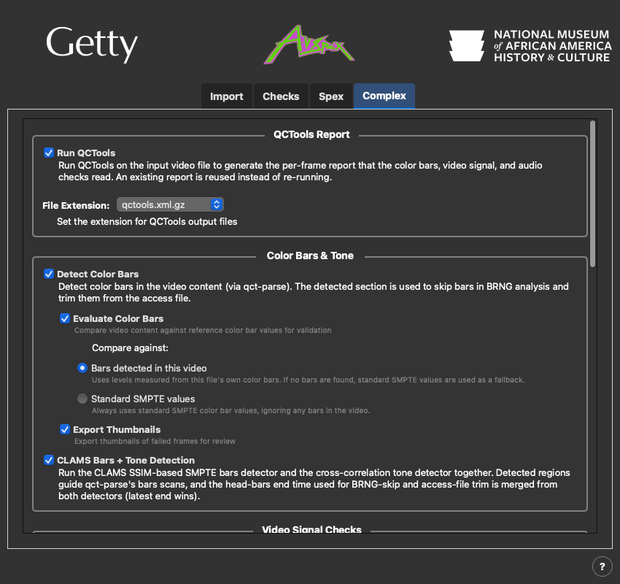
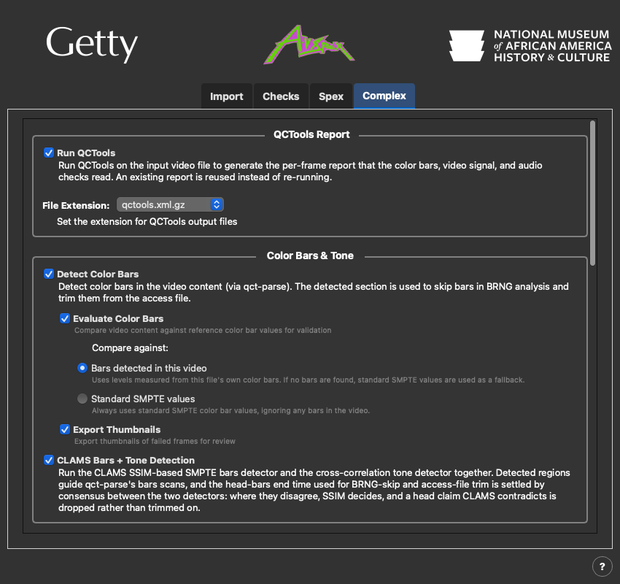
update to description of color bars detection in complex tab

Changed region(s): [[0.0306, 0.8014, 0.95, 0.9247]]

diff --git a/src/AV_Spex/gui/gui_complex_window.py b/src/AV_Spex/gui/gui_complex_window.py
@@ -231,9 +231,11 @@ class ComplexWindow(QWidget, ThemeableMixin):
         self._add_option(layout, self.run_clams_detection_cb, self._desc_label(
             "Run the CLAMS SSIM-based SMPTE bars detector and the "
             "cross-correlation tone detector together. Detected regions "
-            "guide qct-parse's bars scans, and the head-bars end time "
-            "used for BRNG-skip and access-file trim is merged from "
-            "both detectors (latest end wins)."))
+            "guide qct-parse's bars scans, and the head-bars end time used "
+            "for BRNG-skip and access-file trim is settled by consensus "
+            "between the two detectors: where they disagree, SSIM decides, "
+            "and a head claim CLAMS contradicts is dropped rather than "
+            "trimmed on."))
 
         self.colorbars_group.setLayout(layout)
         main_layout.addWidget(self.colorbars_group)
